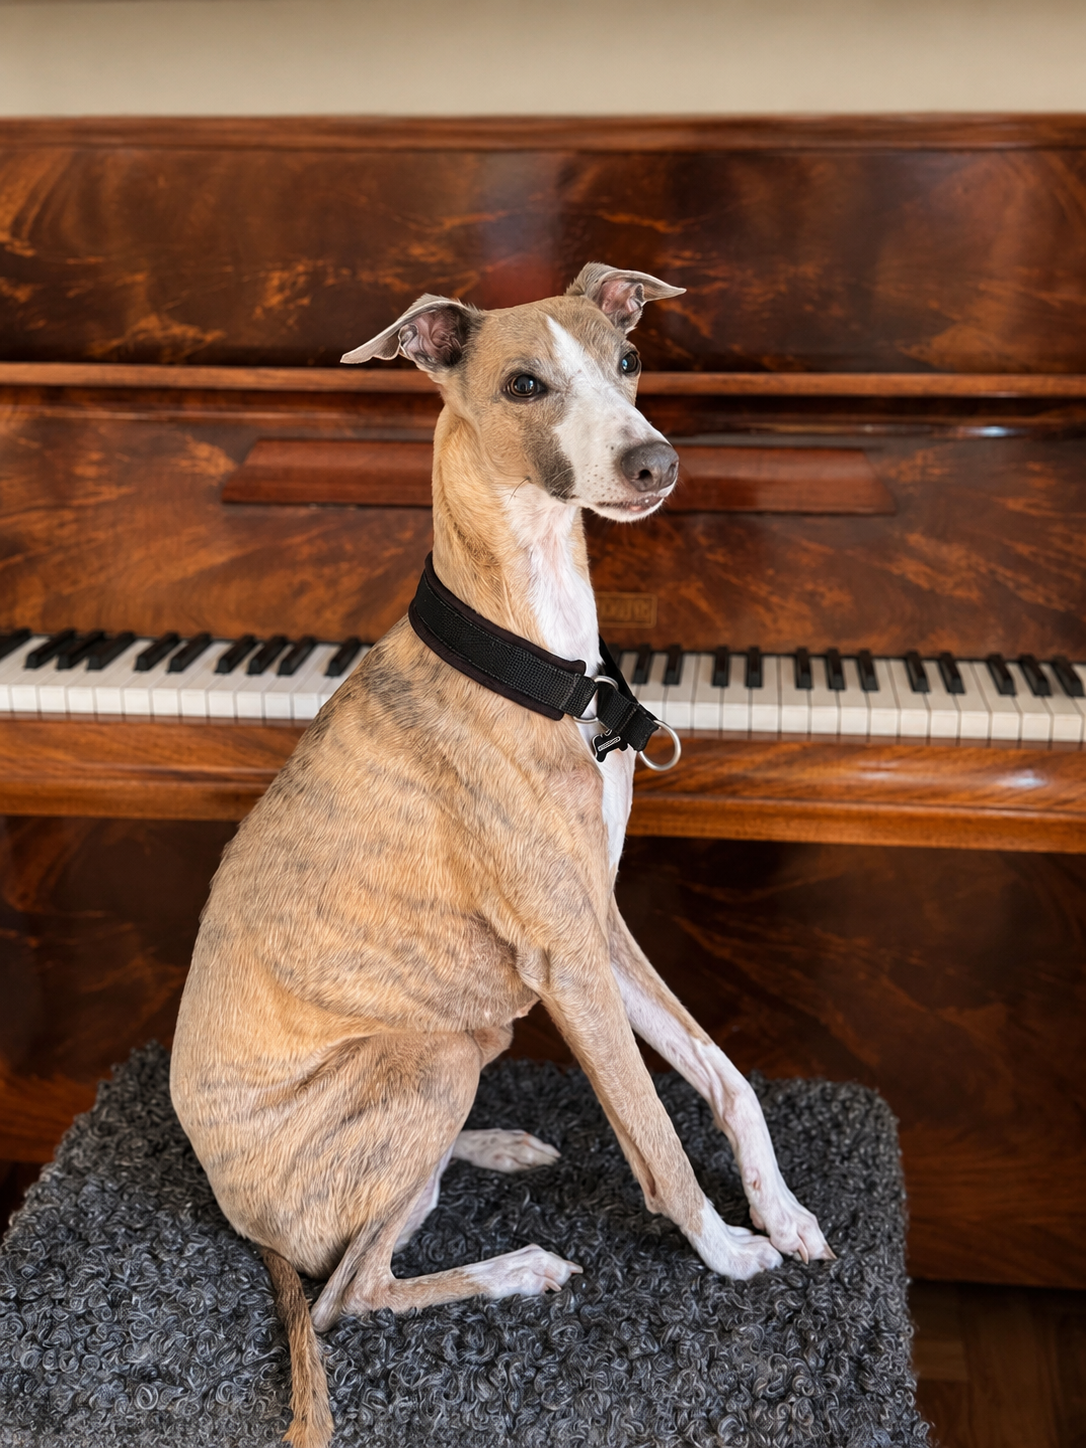
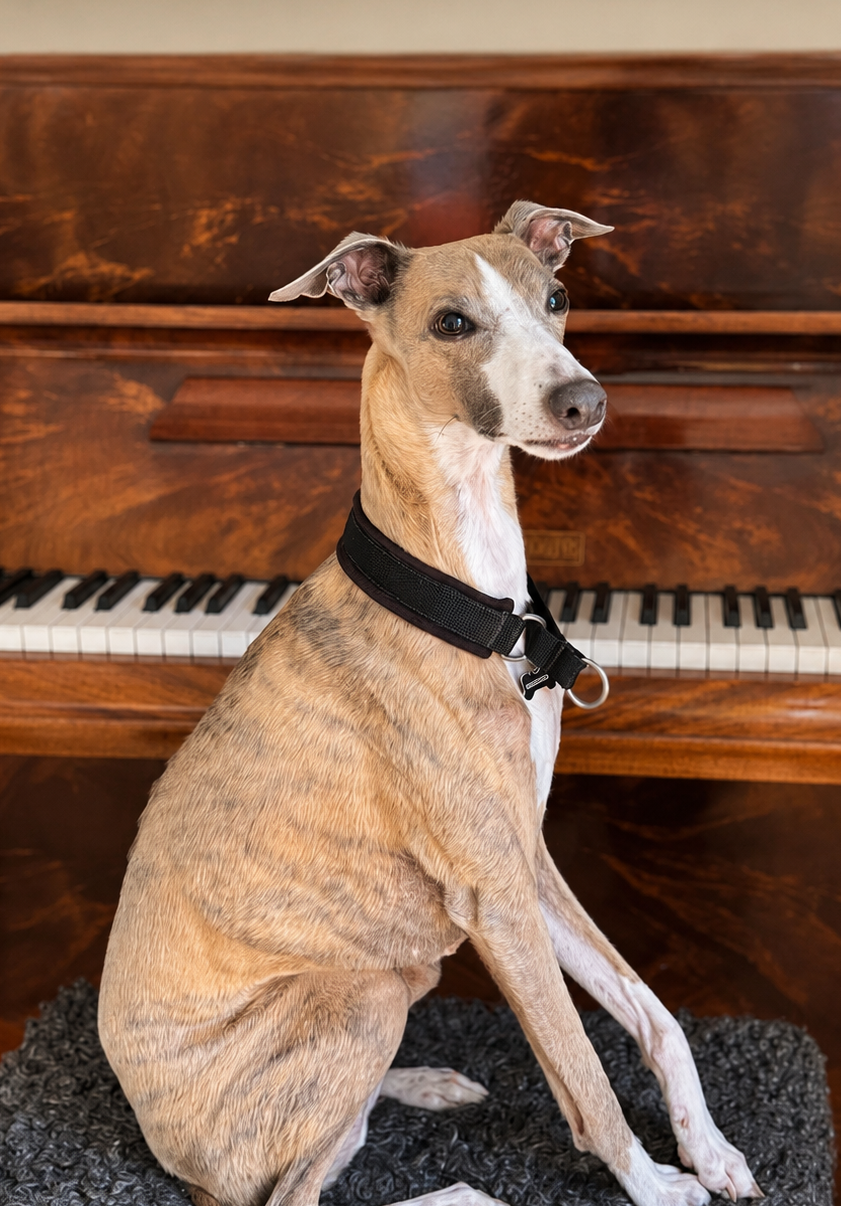
.

diff --git a/client/src/pages/Home.tsx b/client/src/pages/Home.tsx
@@ -118,7 +118,7 @@ export default function Home() {
 
             <div className="rounded-3xl overflow-hidden shadow-soft-lg mb-12">
               <img
-                src="https://d2xsxph8kpxj0f.cloudfront.net/310519663526201017/Nv66AfvEoMtUdNgZMyJxs4/therapy-concept-illustration.png"
+                src="/work.png"
                 alt="Therapy dogs in schools and care homes"
                 className="w-full h-auto"
               />